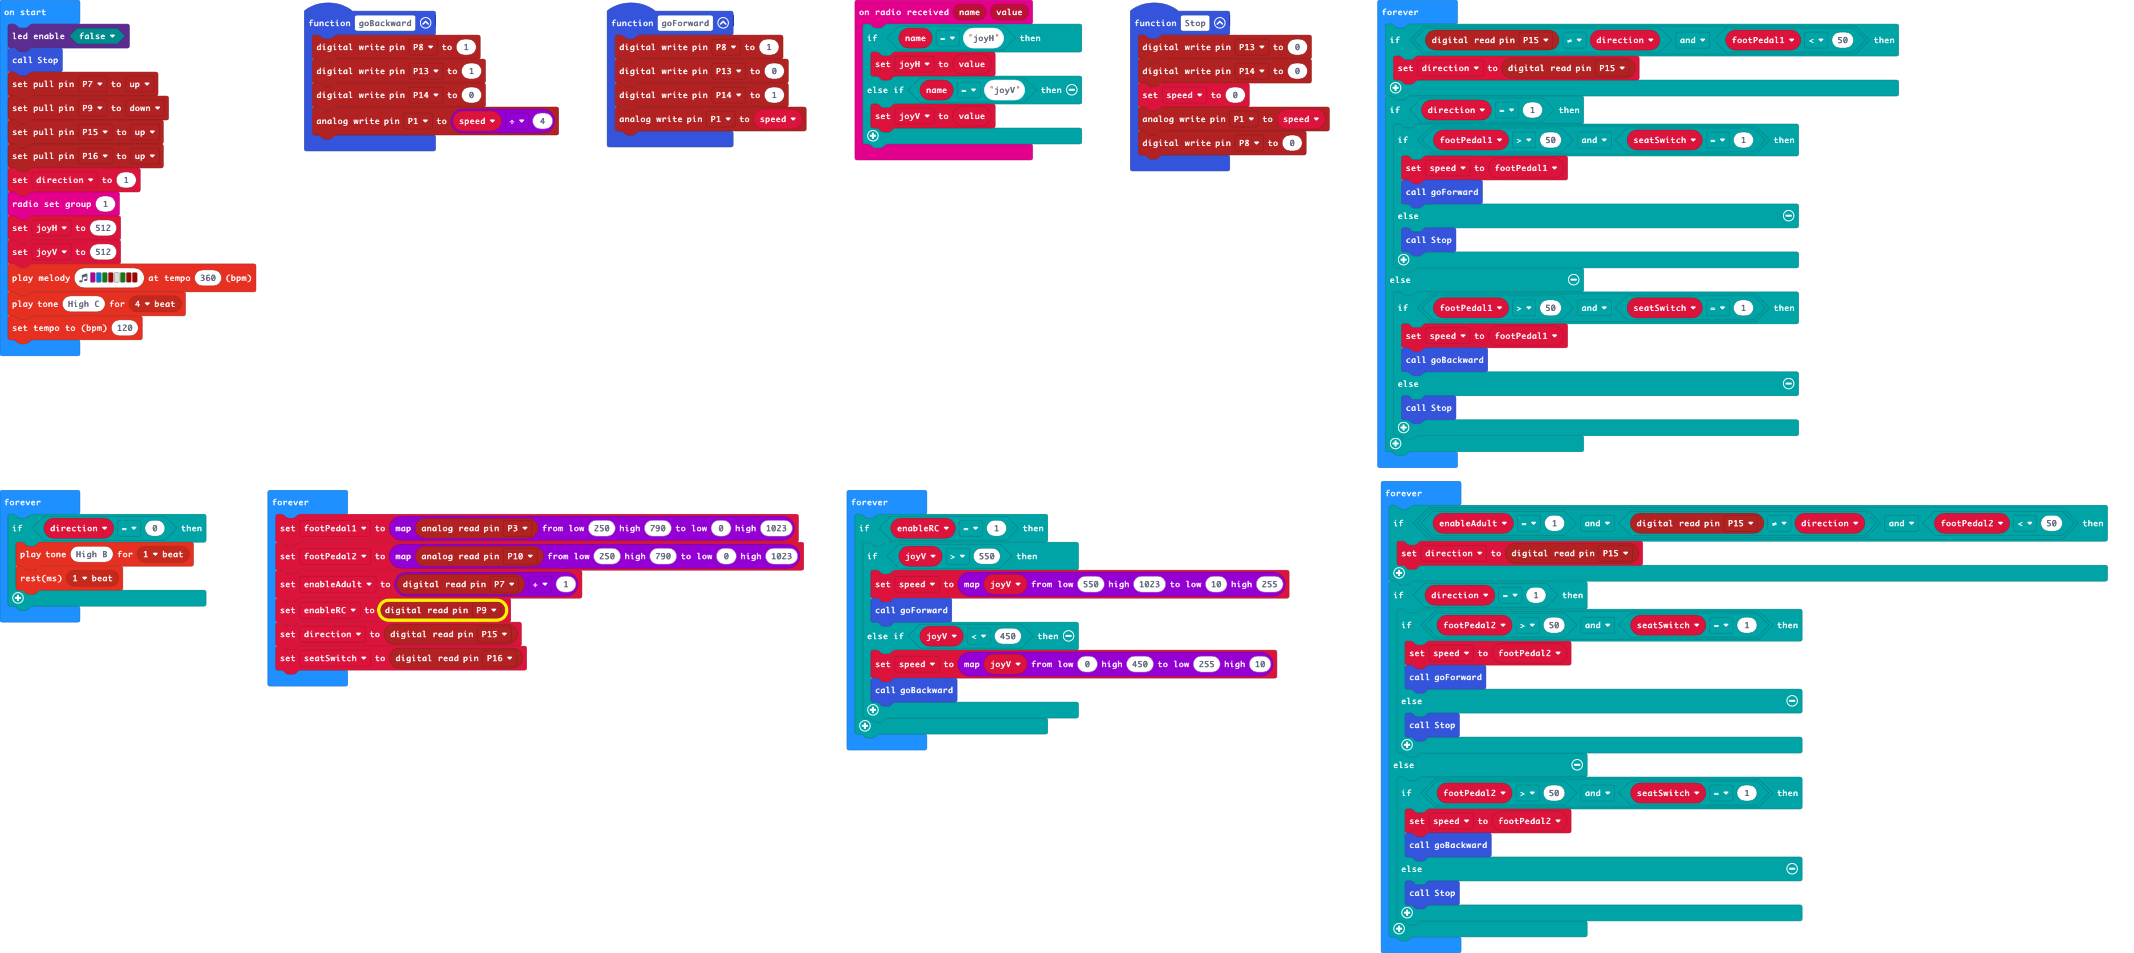
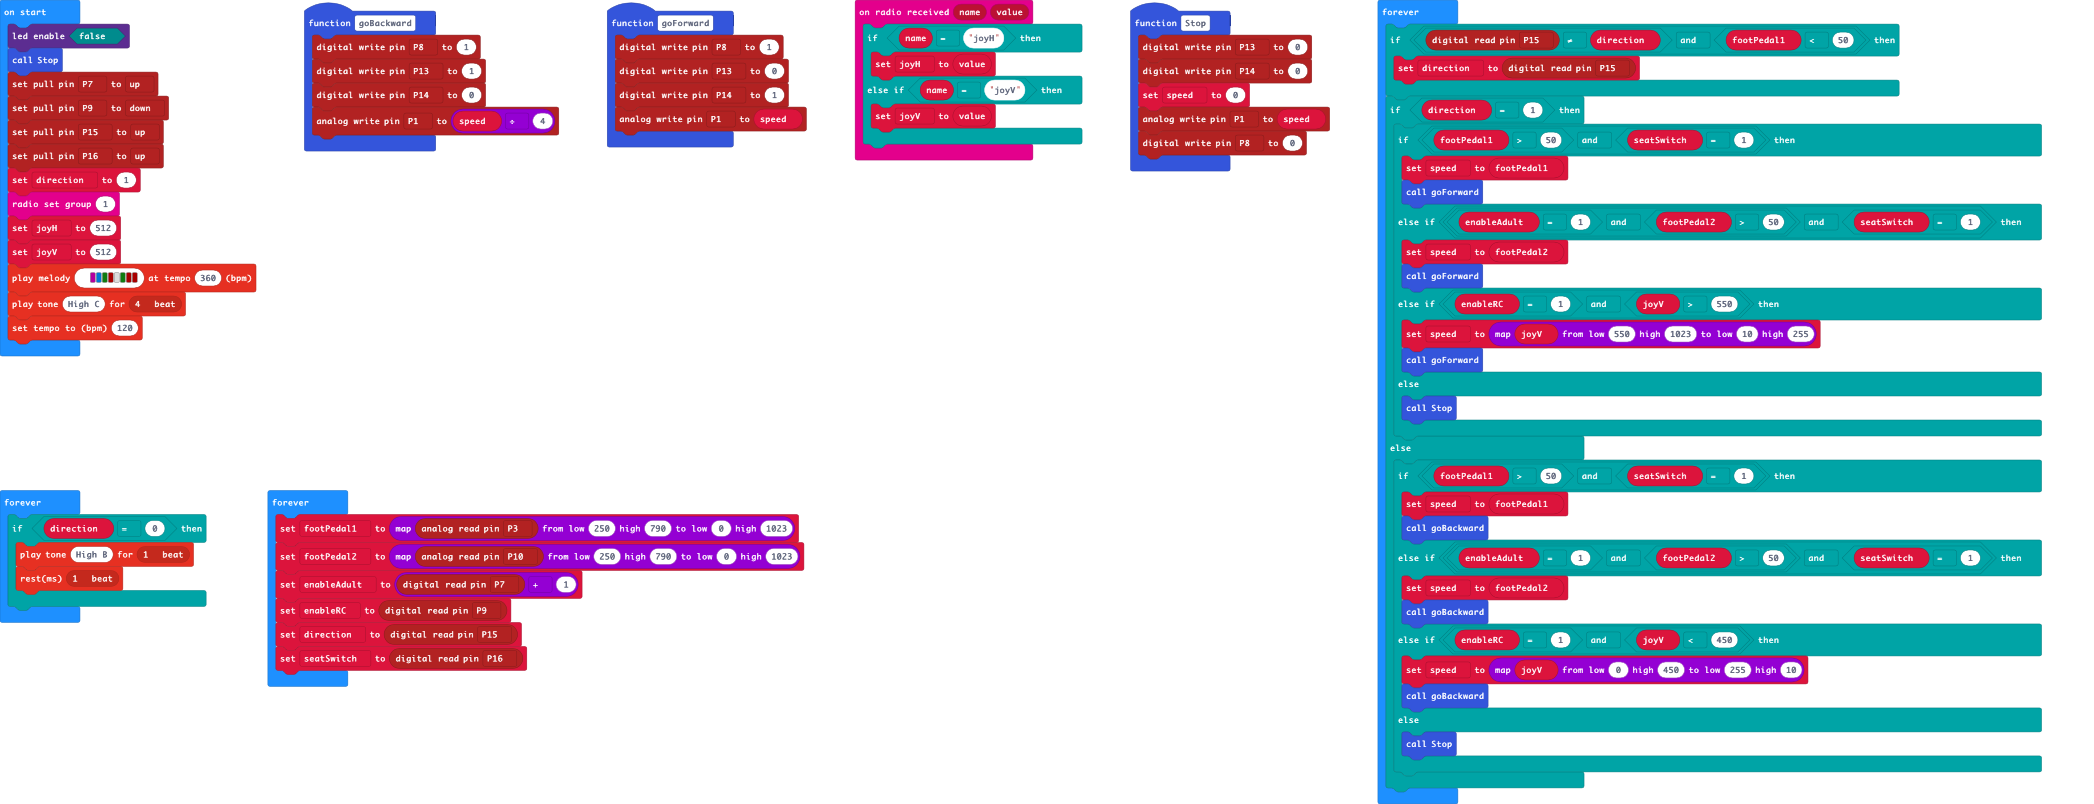
Update main.blocks, main.ts

diff --git a/main.ts b/main.ts
@@ -25,8 +25,8 @@ function Stop () {
     pins.digitalWritePin(DigitalPin.P8, 0)
 }
 let enableRC = 0
-let enableAdult = 0
 let footPedal2 = 0
+let enableAdult = 0
 let seatSwitch = 0
 let footPedal1 = 0
 let speed = 0
@@ -53,12 +53,24 @@ basic.forever(function () {
         if (footPedal1 > 50 && seatSwitch == 1) {
             speed = footPedal1
             goForward()
+        } else if (enableAdult == 1 && footPedal2 > 50 && seatSwitch == 1) {
+            speed = footPedal2
+            goForward()
+        } else if (enableRC == 1 && joyV > 550) {
+            speed = Math.map(joyV, 550, 1023, 10, 255)
+            goForward()
         } else {
             Stop()
         }
     } else {
         if (footPedal1 > 50 && seatSwitch == 1) {
             speed = footPedal1
+            goBackward()
+        } else if (enableAdult == 1 && footPedal2 > 50 && seatSwitch == 1) {
+            speed = footPedal2
+            goBackward()
+        } else if (enableRC == 1 && joyV < 450) {
+            speed = Math.map(joyV, 0, 450, 255, 10)
             goBackward()
         } else {
             Stop()
@@ -78,35 +90,4 @@ basic.forever(function () {
     enableRC = pins.digitalReadPin(DigitalPin.P9)
     direction = pins.digitalReadPin(DigitalPin.P15)
     seatSwitch = pins.digitalReadPin(DigitalPin.P16)
-})
-basic.forever(function () {
-    if (enableRC == 1) {
-        if (joyV > 550) {
-            speed = Math.map(joyV, 550, 1023, 10, 255)
-            goForward()
-        } else if (joyV < 450) {
-            speed = Math.map(joyV, 0, 450, 255, 10)
-            goBackward()
-        }
-    }
-})
-basic.forever(function () {
-    if (enableAdult == 1 && pins.digitalReadPin(DigitalPin.P15) != direction && footPedal2 < 50) {
-        direction = pins.digitalReadPin(DigitalPin.P15)
-    }
-    if (direction == 1) {
-        if (footPedal2 > 50 && seatSwitch == 1) {
-            speed = footPedal2
-            goForward()
-        } else {
-            Stop()
-        }
-    } else {
-        if (footPedal2 > 50 && seatSwitch == 1) {
-            speed = footPedal2
-            goBackward()
-        } else {
-            Stop()
-        }
-    }
 })
